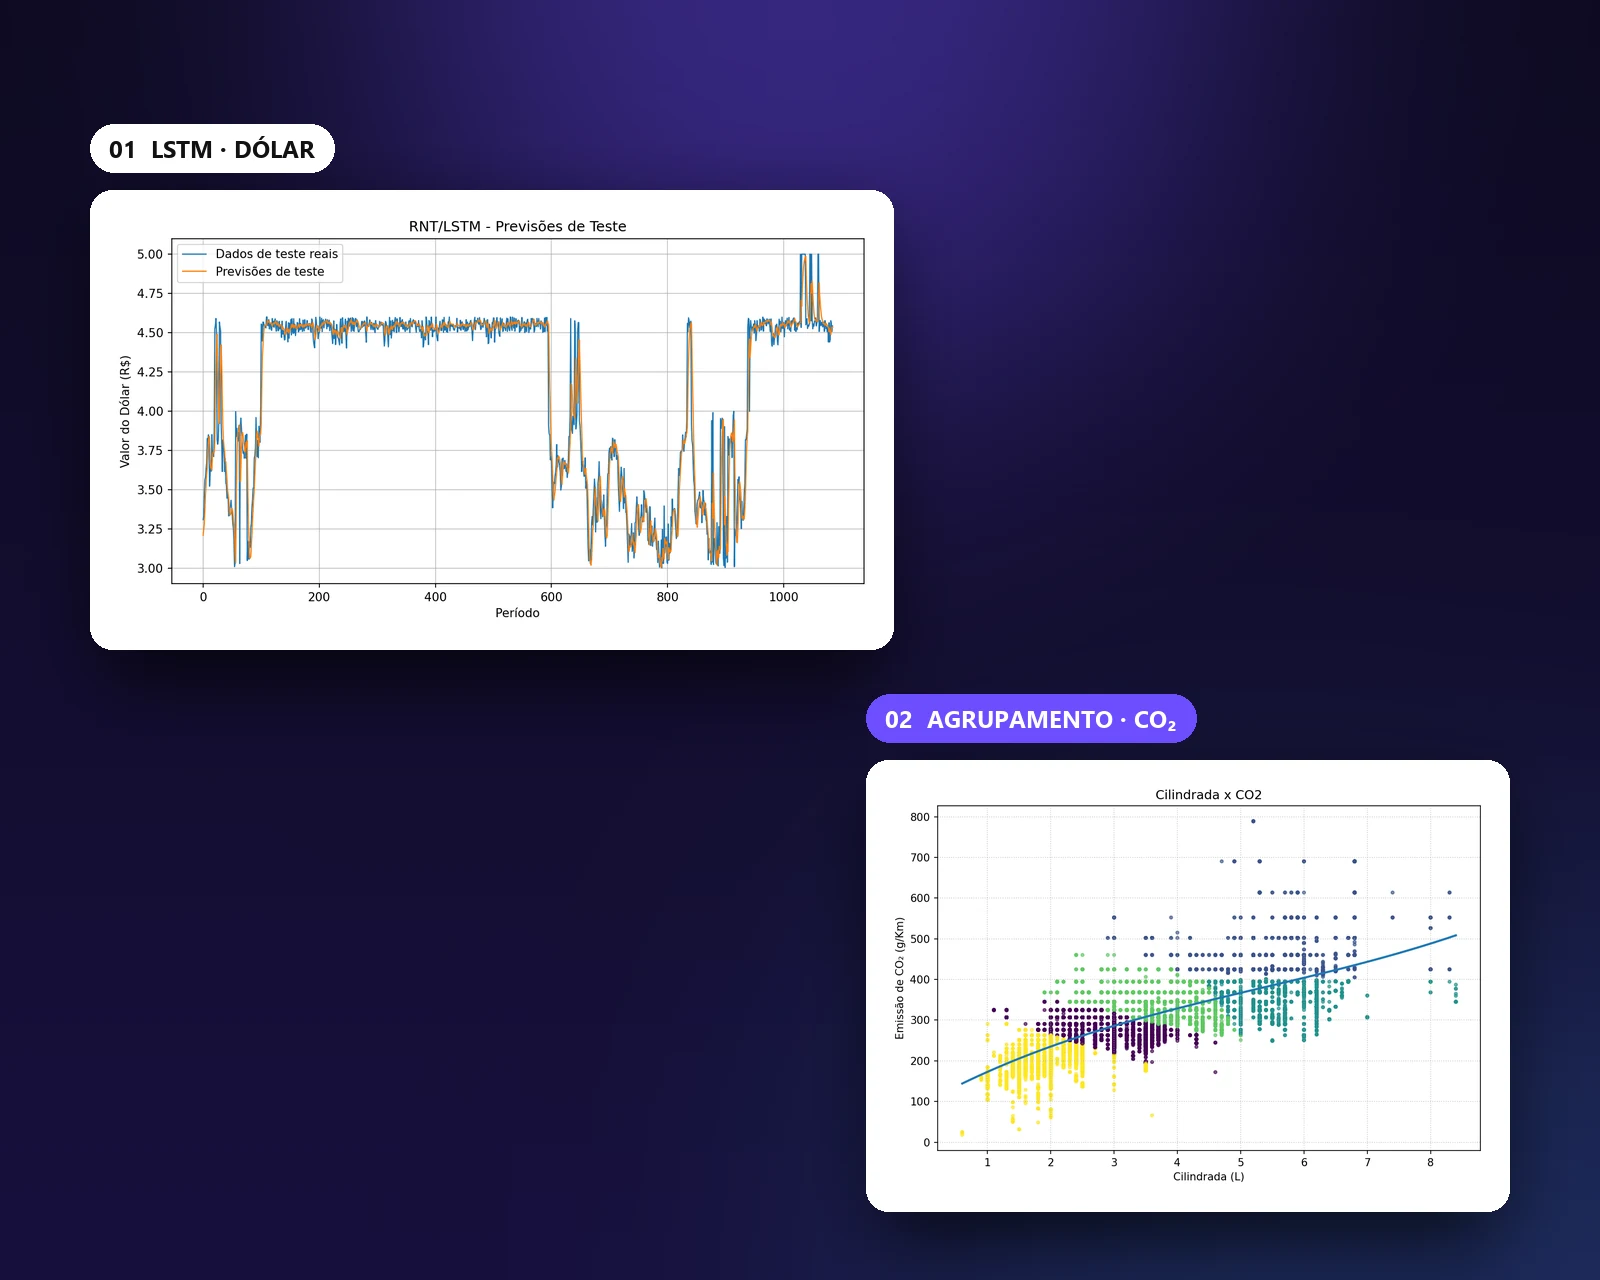
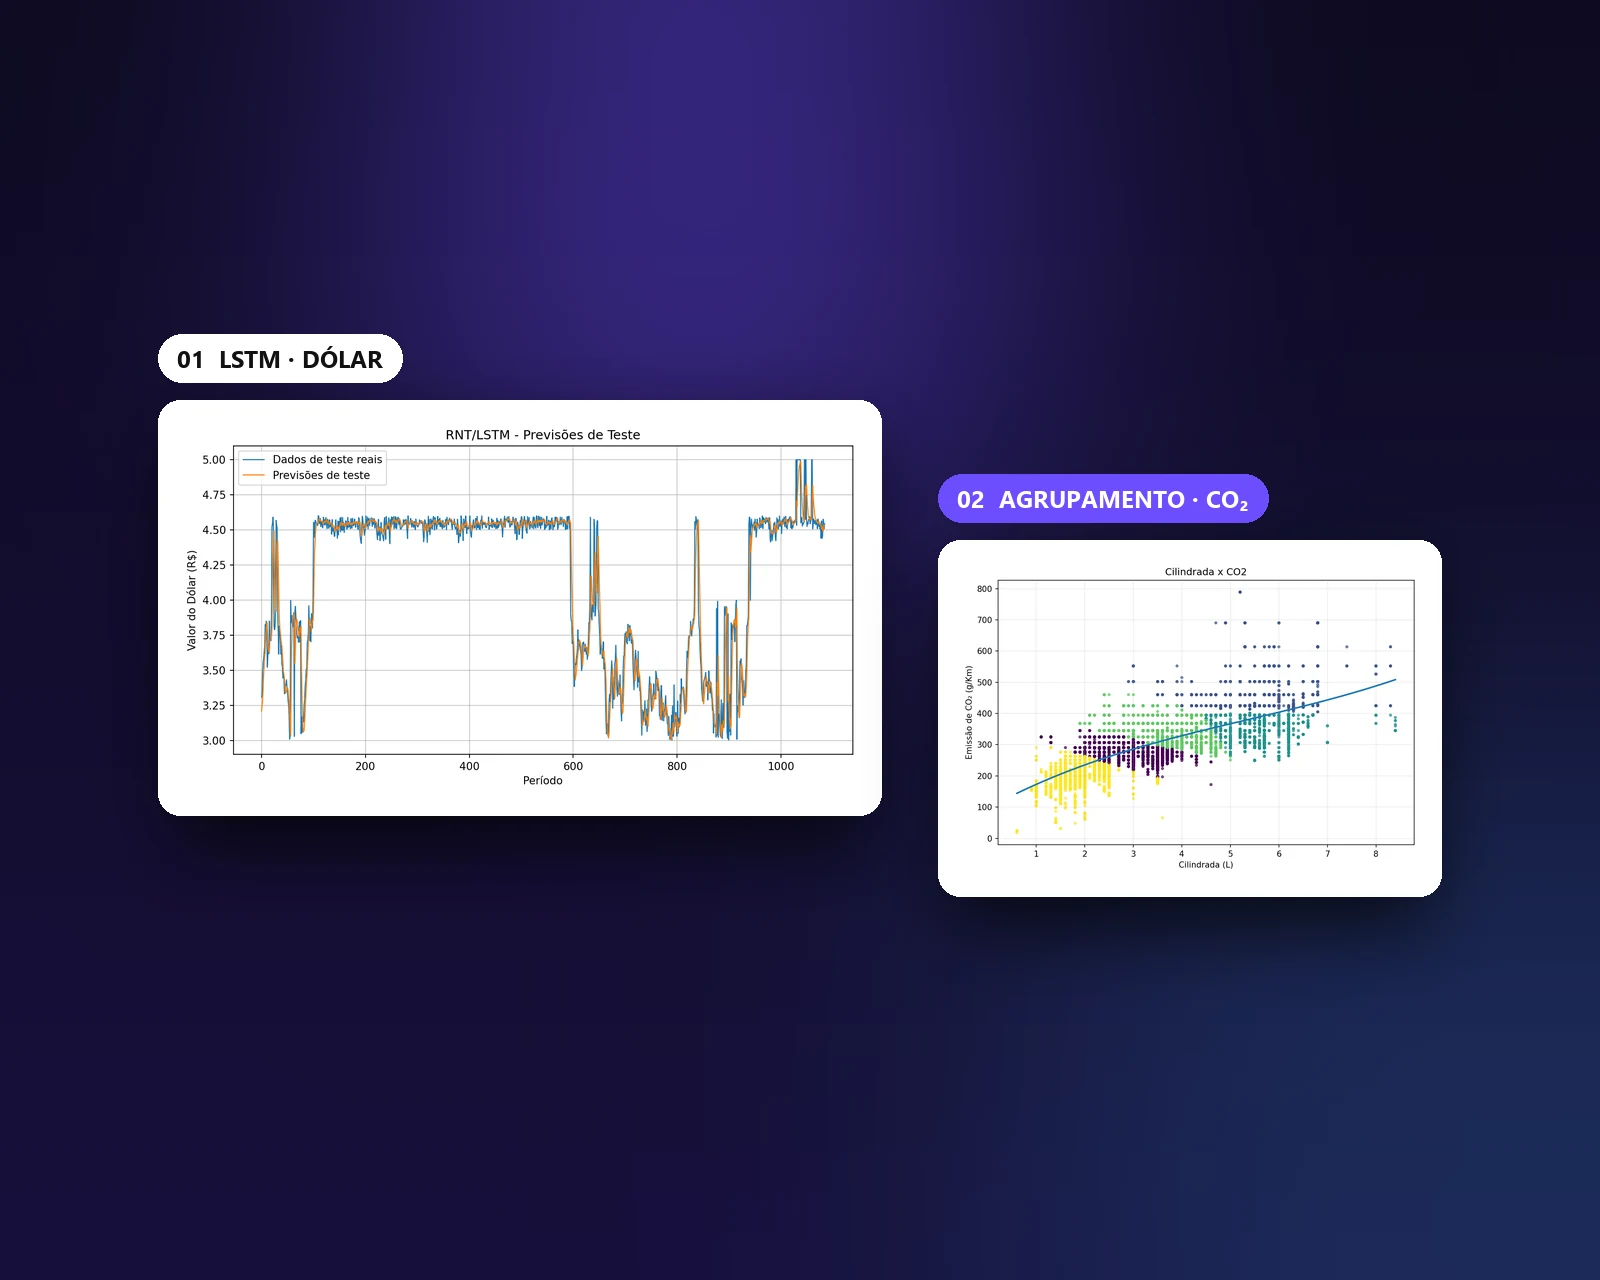
Capa de Redes neurais refeita para não cortar na página do projeto

diff --git a/index.html b/index.html
@@ -195,7 +195,7 @@
         </a>
 
         <a class="project" href="projetos/redes-neurais.html" data-cursor="Ver projeto">
-          <div class="project__media"><div class="project__zoom"><img src="assets/projects/redes/cover.webp" alt="Previsões da LSTM para o dólar e veículos agrupados por cilindrada e CO₂" data-parallax></div></div>
+          <div class="project__media"><div class="project__zoom"><img src="assets/projects/redes/cover.webp?v=2" alt="Previsões da LSTM para o dólar e veículos agrupados por cilindrada e CO₂" data-parallax></div></div>
           <div class="project__meta">
             <span class="project__name"><i style="--c:#38bdf8"></i>Redes neurais: câmbio e CO₂</span>
             <span class="project__info"><span>Data Science</span><span>2026</span></span>
@@ -244,7 +244,7 @@
         </a>
 
         <a class="project" aria-hidden="true" tabindex="-1" href="projetos/redes-neurais.html" data-cursor="Ver projeto">
-          <div class="project__media"><div class="project__zoom"><img src="assets/projects/redes/cover.webp" alt="Previsões da LSTM para o dólar e veículos agrupados por cilindrada e CO₂" data-parallax></div></div>
+          <div class="project__media"><div class="project__zoom"><img src="assets/projects/redes/cover.webp?v=2" alt="Previsões da LSTM para o dólar e veículos agrupados por cilindrada e CO₂" data-parallax></div></div>
           <div class="project__meta">
             <span class="project__name"><i style="--c:#38bdf8"></i>Redes neurais: câmbio e CO₂</span>
             <span class="project__info"><span>Data Science</span><span>2026</span></span>

diff --git a/projetos/redes-neurais.html b/projetos/redes-neurais.html
@@ -49,7 +49,7 @@
     </section>
 
     <figure class="case-cover" data-reveal="fade">
-      <img src="../assets/projects/redes/cover.webp" alt="Gráfico das previsões da LSTM para o dólar e gráfico de dispersão dos veículos agrupados por cilindrada e CO₂" data-parallax>
+      <img src="../assets/projects/redes/cover.webp?v=2" alt="Gráfico das previsões da LSTM para o dólar e gráfico de dispersão dos veículos agrupados por cilindrada e CO₂" data-parallax>
     </figure>
 
     <section class="stats" aria-label="Resultados principais">
